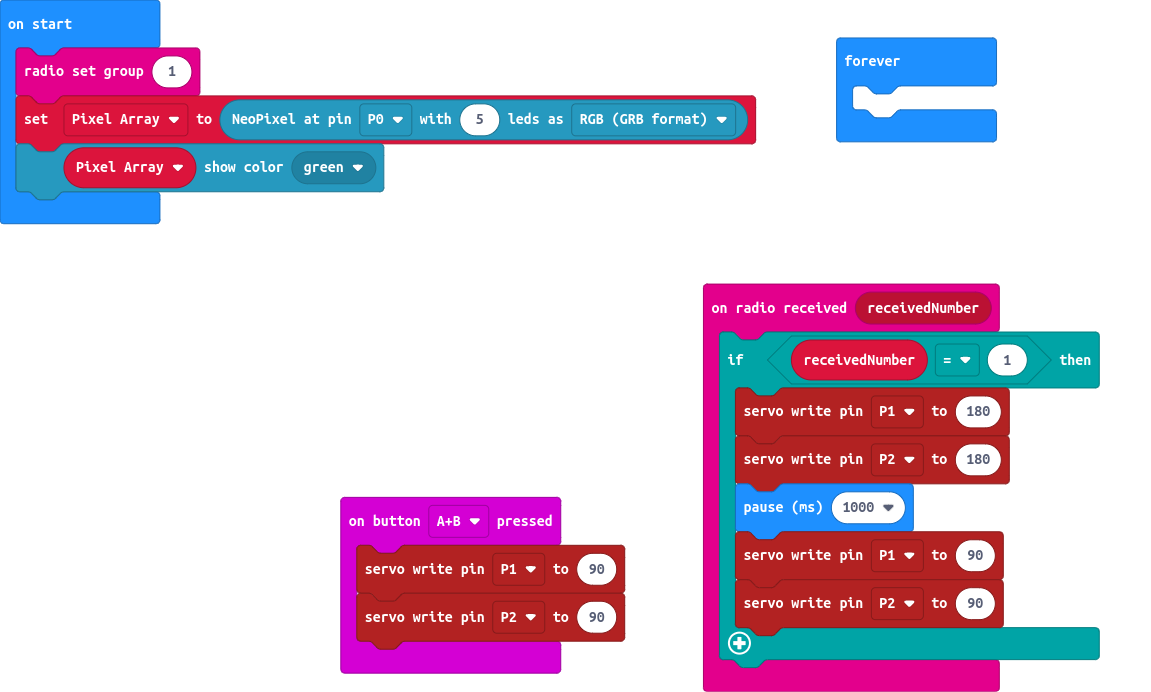
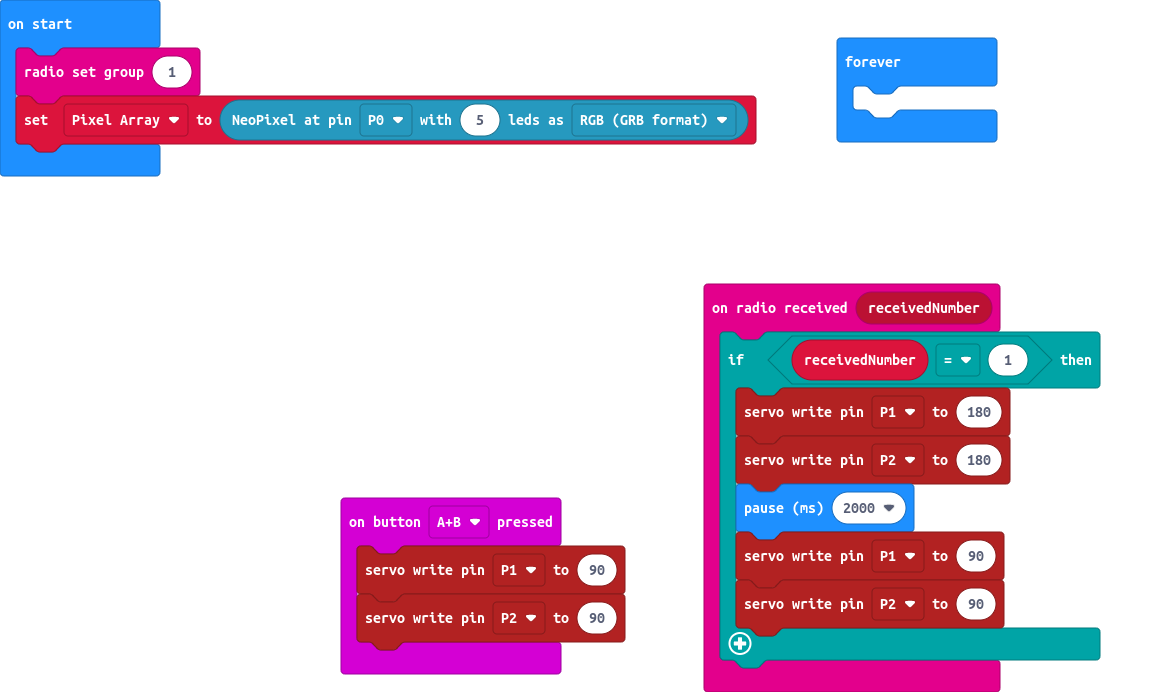
turn on received 1 on radiogroup 1 for 2 seconds

diff --git a/main.ts b/main.ts
@@ -2,7 +2,7 @@ radio.onReceivedNumber(function (receivedNumber) {
     if (receivedNumber == 1) {
         pins.servoWritePin(AnalogPin.P1, 180)
         pins.servoWritePin(AnalogPin.P2, 180)
-        basic.pause(1000)
+        basic.pause(2000)
         pins.servoWritePin(AnalogPin.P1, 90)
         pins.servoWritePin(AnalogPin.P2, 90)
     }
@@ -13,7 +13,6 @@ input.onButtonPressed(Button.AB, function () {
 })
 radio.setGroup(1)
 let Pixel_Array = neopixel.create(DigitalPin.P0, 5, NeoPixelMode.RGB)
-Pixel_Array.showColor(neopixel.colors(NeoPixelColors.Green))
 basic.forever(function () {
 	
 })
